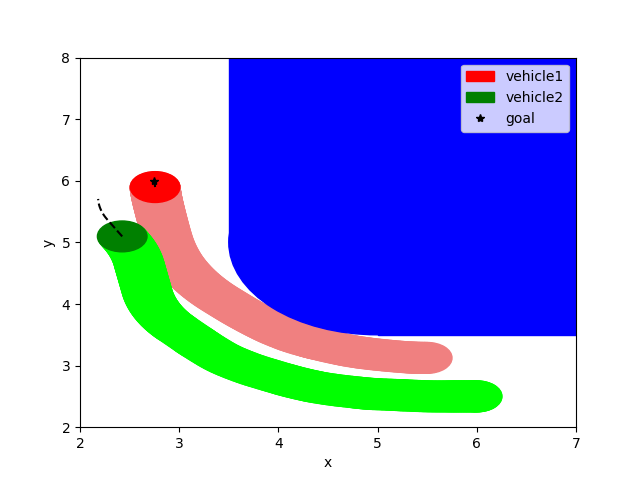
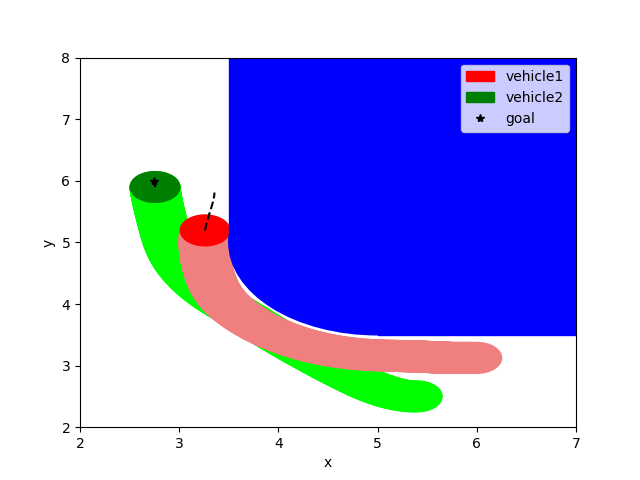
no collision baseline

diff --git a/code/ol_mpc.py b/code/ol_mpc.py
@@ -290,8 +290,8 @@ def main():
     N = 30
     T = 10
     s_goal = np.array([2.75, 6, np.pi/2]) 
-    s1_init = np.array([5.5, 3.125, np.pi])
-    s2_init = np.array([6, 2.5, np.pi])
+    s1_init = np.array([6, 3.125, np.pi])
+    s2_init = np.array([5.4, 2.5, np.pi])
 
     L = 1/2 # car width (approx. as a circle)
     vm = 10 # maximum velocity
